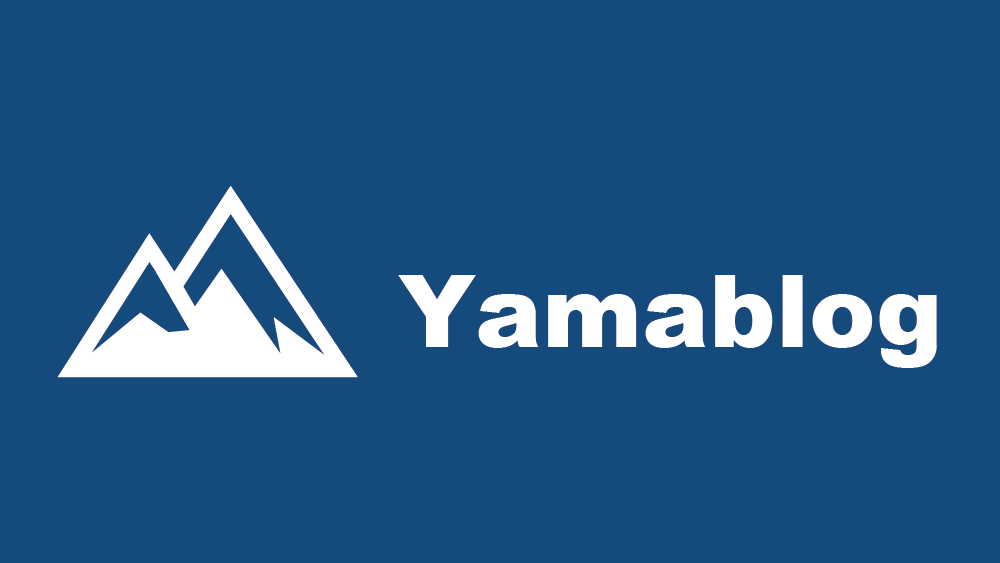
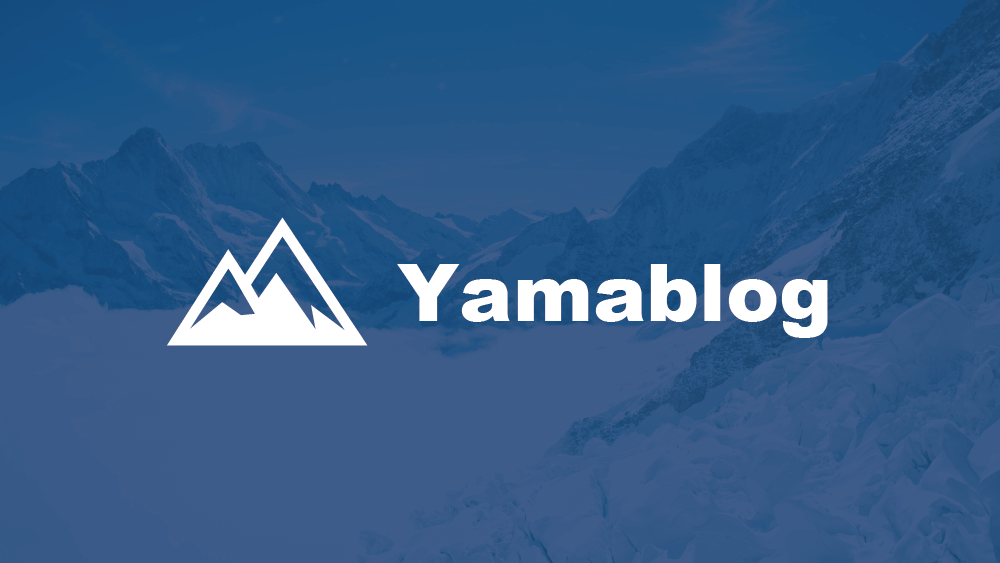
update seo og:image

diff --git a/src/components/seo.tsx b/src/components/seo.tsx
@@ -60,7 +60,7 @@ const SEO: React.FC<IProps> = ({ description, meta, title, image }) => {
         },
         {
           property: `og:image`,
-          content: image ? `${siteUrl}${image}` : keyvisual
+          content: image ? `${siteUrl}${image}` : `${siteUrl}${keyvisual}`
         },
         {
           name: `twitter:card`,
